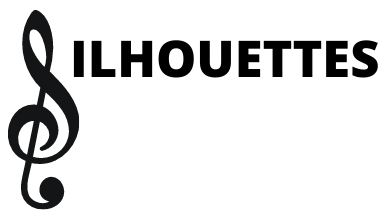
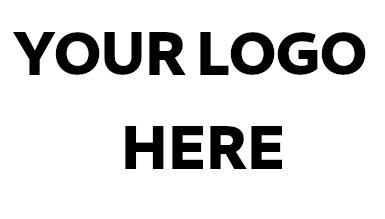
remove silhouettes to make generic and rm litecoin

Changed region(s): [[0.0, 0.0548, 0.9974, 0.9589], [0.3117, 0.5753, 0.7481, 0.7945]]

diff --git a/src/components/about.svelte b/src/components/about.svelte
@@ -3,21 +3,18 @@
 
 	<h2 class="mb">WHO</h2>
 
-	<h3>SAMSON MOW</h3>
+	<h3>YOU</h3>
 	<p>
-		Samson Mow is CSO of Blockstream and CEO of Pixelmatic. Blockstream is the leading provider of
-		blockchain technologies, on the forefront of work in cryptography and distributed systems.
-		Samson founded Pixelmatic in 2011 to create engaging games that are truly social and encourage
-		new connections to be made.
+		Imagine this is your bio here, as this would be your website. You can share how awesome you are and 
+		what the website visitors here should know about you.
 	</p>
 
-	<h3>MATT HARTLEY</h3>
+	<h3>KRIS CONSTABLE</h3>
 
 	<p>
-		Matt Hartley is a film director and producer; who has made numerous films and worked with
-		studios to independent production companies. He is also founder of Castle in the Sky
-		Productions, which has produced three feature films to date and are currently available on
-		Amazon Prime, iTunes, Hulu, Netflix and more.
+		Kris Constable is the CEO and Co-founder of bitcointokenmarketplaces.com. With a 
+		passion for privacy and security, Kris works to provide bleeding edge services to big brands and well 
+		as entrepreneurs and wannapreneurs. 
 	</p>
 
 	<h3>ADAM SOLTYS</h3>
@@ -28,20 +25,11 @@
 		Bitcoin and the Liquid Network.
 	</p>
 
-	<h3>SHIV RAJAGOPAL</h3>
-
-	<p>
-		Shiv Rajagopal is a producer and filmmaker from Hong Kong. Having studied in Southern
-		California, he now works in Hong Kong as a content writer and producer.
-	</p>
-
 	<h2>WHAT</h2>
 
 	<p>
-		<b>SILHOUETTES</b> is a sci-fi feature film about an astronaut named Katherine Barnes, who is
-		visited by an extra-terrestrial that takes her on a tour of the universe- past, present, and
-		future. <b>SILHOUETTES</b>
-		will be the first feature film to sell tickets and access via NFTs. Upon purchase, viewers will also
+		<b>YOUR SITE NAME</b> is a video or live stream website where you can expect to see YOUR CONTENT. <b>YOUR SITE NAME</b>
+		is a video platform that uniquely sells tickets and access via NFTs. Upon purchase, viewers will also
 		unlock exclusive digital assets along with access to the film. These NFTs will be released in three
 		separate tiers:
 	</p>
@@ -59,11 +47,11 @@
 
 	<h2>WHEN</h2>
 
-	<p><b>SILHOUETTES</b> will be released on August 13th, 2021.</p>
+	<p><b>YOUR NEW SITE</b> will be released on January 01, 2022.</p>
 
 	<h2>WHERE</h2>
 
-	<p><b>SILHOUETTES</b> can be accessed worldwide upon release on silhouettesthemovie.com</p>
+	<p><b>YOUR NEW SITE</b> can be accessed worldwide upon release on example.com</p>
 
 	<h2>WHY</h2>
 
@@ -80,7 +68,7 @@
 	<p>
 		A wallet is needed to purchase a token, which represents a movie ticket (aka access) to our
 		film. Without a token, access to experience the movie will not be permitted. Tokens can be
-		purchased using BTC, BTC Liquid, Lightning and Litecoin.
+		purchased using BTC, BTC Liquid, and Lightning Network.
 	</p>
 </div>
 

diff --git a/src/components/options.svelte b/src/components/options.svelte
@@ -51,20 +51,12 @@
 						>Lightning</button
 					>
 				{/if}
-				{#if $unit !== 'LTC'}
-					<button on:click={() => getInvoice('LTC')} class:active={$unit === 'LTC'}>
-						Litecoin
-					</button>
-				{/if}
 			</div>
 		{:else}
 			<h3 class="mb">Choose a payment option:</h3>
 			<div class="container space-evenly mb">
 				<button on:click={() => getInvoice('BTC')} class:active={$unit && $unit.includes('BTC')}>
 					Bitcoin
-				</button>
-				<button on:click={() => getInvoice('LTC')} class:active={$unit === 'LTC'}>
-					Litecoin
 				</button>
 			</div>
 		{/if}
